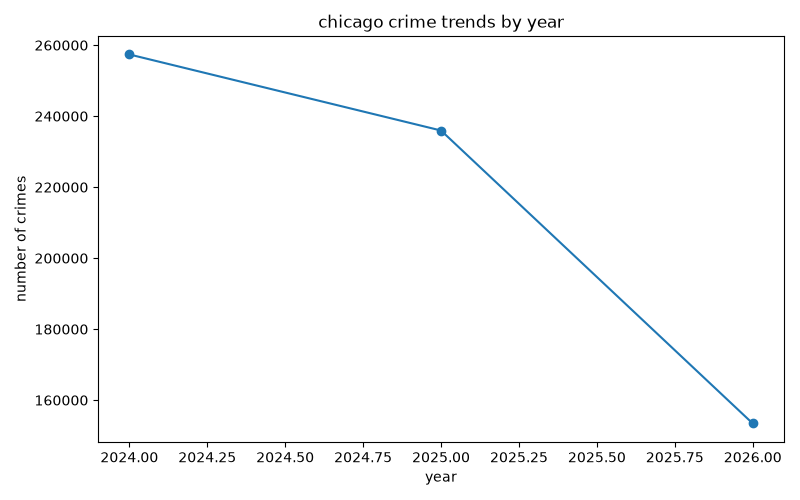
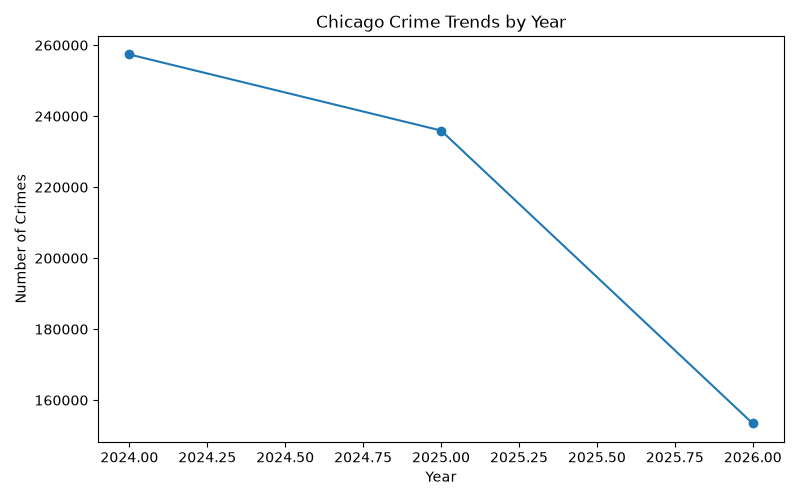
Add hour-of-day and district charts

Changed region(s): [[0.375, 0.03, 0.7188, 0.06], [0.0, 0.36, 0.0312, 0.6], [0.5312, 0.93, 0.5625, 0.96]]

diff --git a/analysis.py b/analysis.py
@@ -16,10 +16,10 @@ import matplotlib.pyplot as plt
 
 plt.figure(figsize=(10,6))
 plt.bar(df['primary_type'],df['total'])
-plt.xlabel('crime type')
-plt.ylabel('number of crimes')
+plt.xlabel('Crime Type')
+plt.ylabel('Number of Crimes')
 plt.xticks(rotation=90)
-plt.title('chicago crime counts by type')
+plt.title('Chicago Crime Counts by Type')
 plt.tight_layout()
 plt.savefig('crime_by_type.png')
 plt.show()
@@ -30,9 +30,9 @@ df2 = pd.read_sql(query2, connection)
 
 plt.figure (figsize=(8,5))
 plt.plot(df2['year'], df2 ['total'], marker='o')
-plt.xlabel('year')
-plt.ylabel('number of crimes')
-plt.title('chicago crime trends by year')
+plt.xlabel('Year')
+plt.ylabel('Number of Crimes')
+plt.title('Chicago Crime Trends by Year')
 plt.tight_layout()
 plt.savefig('crime_by_year.png')
 plt.show()
@@ -43,12 +43,40 @@ df3 = pd.read_sql(query3, connection)
 
 plt.figure (figsize=(8,10))
 plt.barh(df3['primary_type'], df3 ['arrest_rate_pct'])
-plt.xlabel('arrest rate(%)')
-plt.ylabel('crime type')
-plt.title('arrest rate by crime type')
+plt.xlabel('Arrest Rate(%)')
+plt.ylabel('Crime Type')
+plt.title('Arrest Rate by Crime Type')
 plt.tight_layout()
 plt.savefig('arrest_rate_by_type.png')
 plt.show()
+
+query4 = "select hour(str_to_date(date_occurred, '%m/%d/%Y %h:%i:%s %p')) as hour_of_day, count(*) as total from crimes group by hour_of_day order by hour_of_day;"
+
+df4 = pd.read_sql(query4, connection)
+
+plt.figure(figsize=(10,5))
+plt.bar(df4['hour_of_day'], df4['total'])
+plt.xticks(range(0, 24))
+plt.xlabel('Hour of Day (0 = midnight)')
+plt.ylabel('Number of Crimes')
+plt.title('Chicago Crimes by Hour of Day')
+plt.tight_layout()
+plt.savefig('crime_by_hour.png')
+plt.show()
+
+query5 = "select district, count(*) as total from crimes where district is not null group by district order by total desc limit 10;"
+
+df5 = pd.read_sql(query5, connection)
+
+plt.figure(figsize=(8,5))
+plt.bar(df5['district'].astype(str), df5['total'])
+plt.xlabel('Police District')
+plt.ylabel('Number of Crimes')
+plt.title('Top 10 Chicago Police Districts by Crime Count')
+plt.tight_layout()
+plt.savefig('crime_by_district.png')
+plt.show()
+
 
 connection.close()
 
